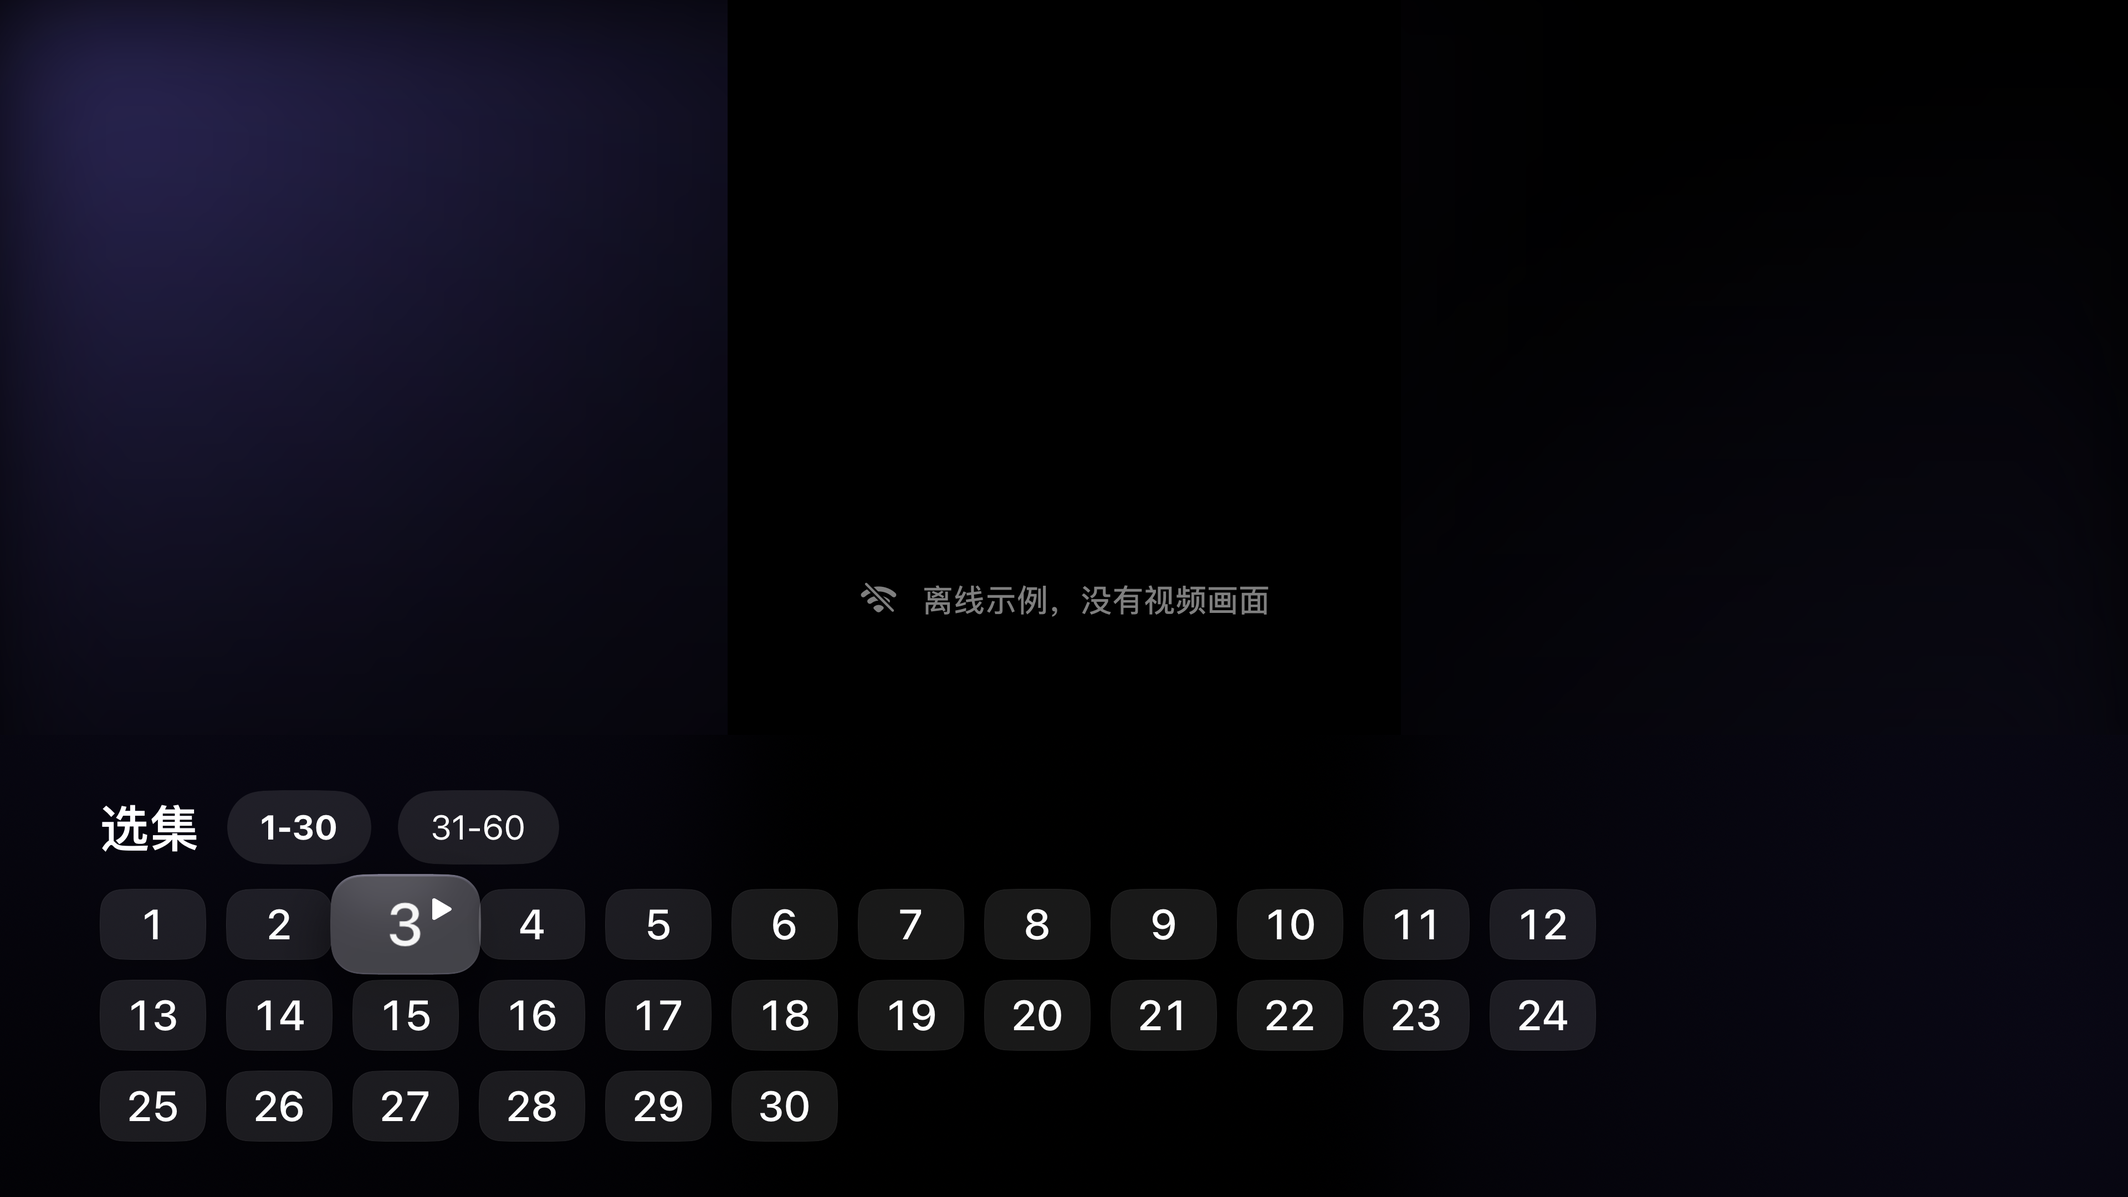
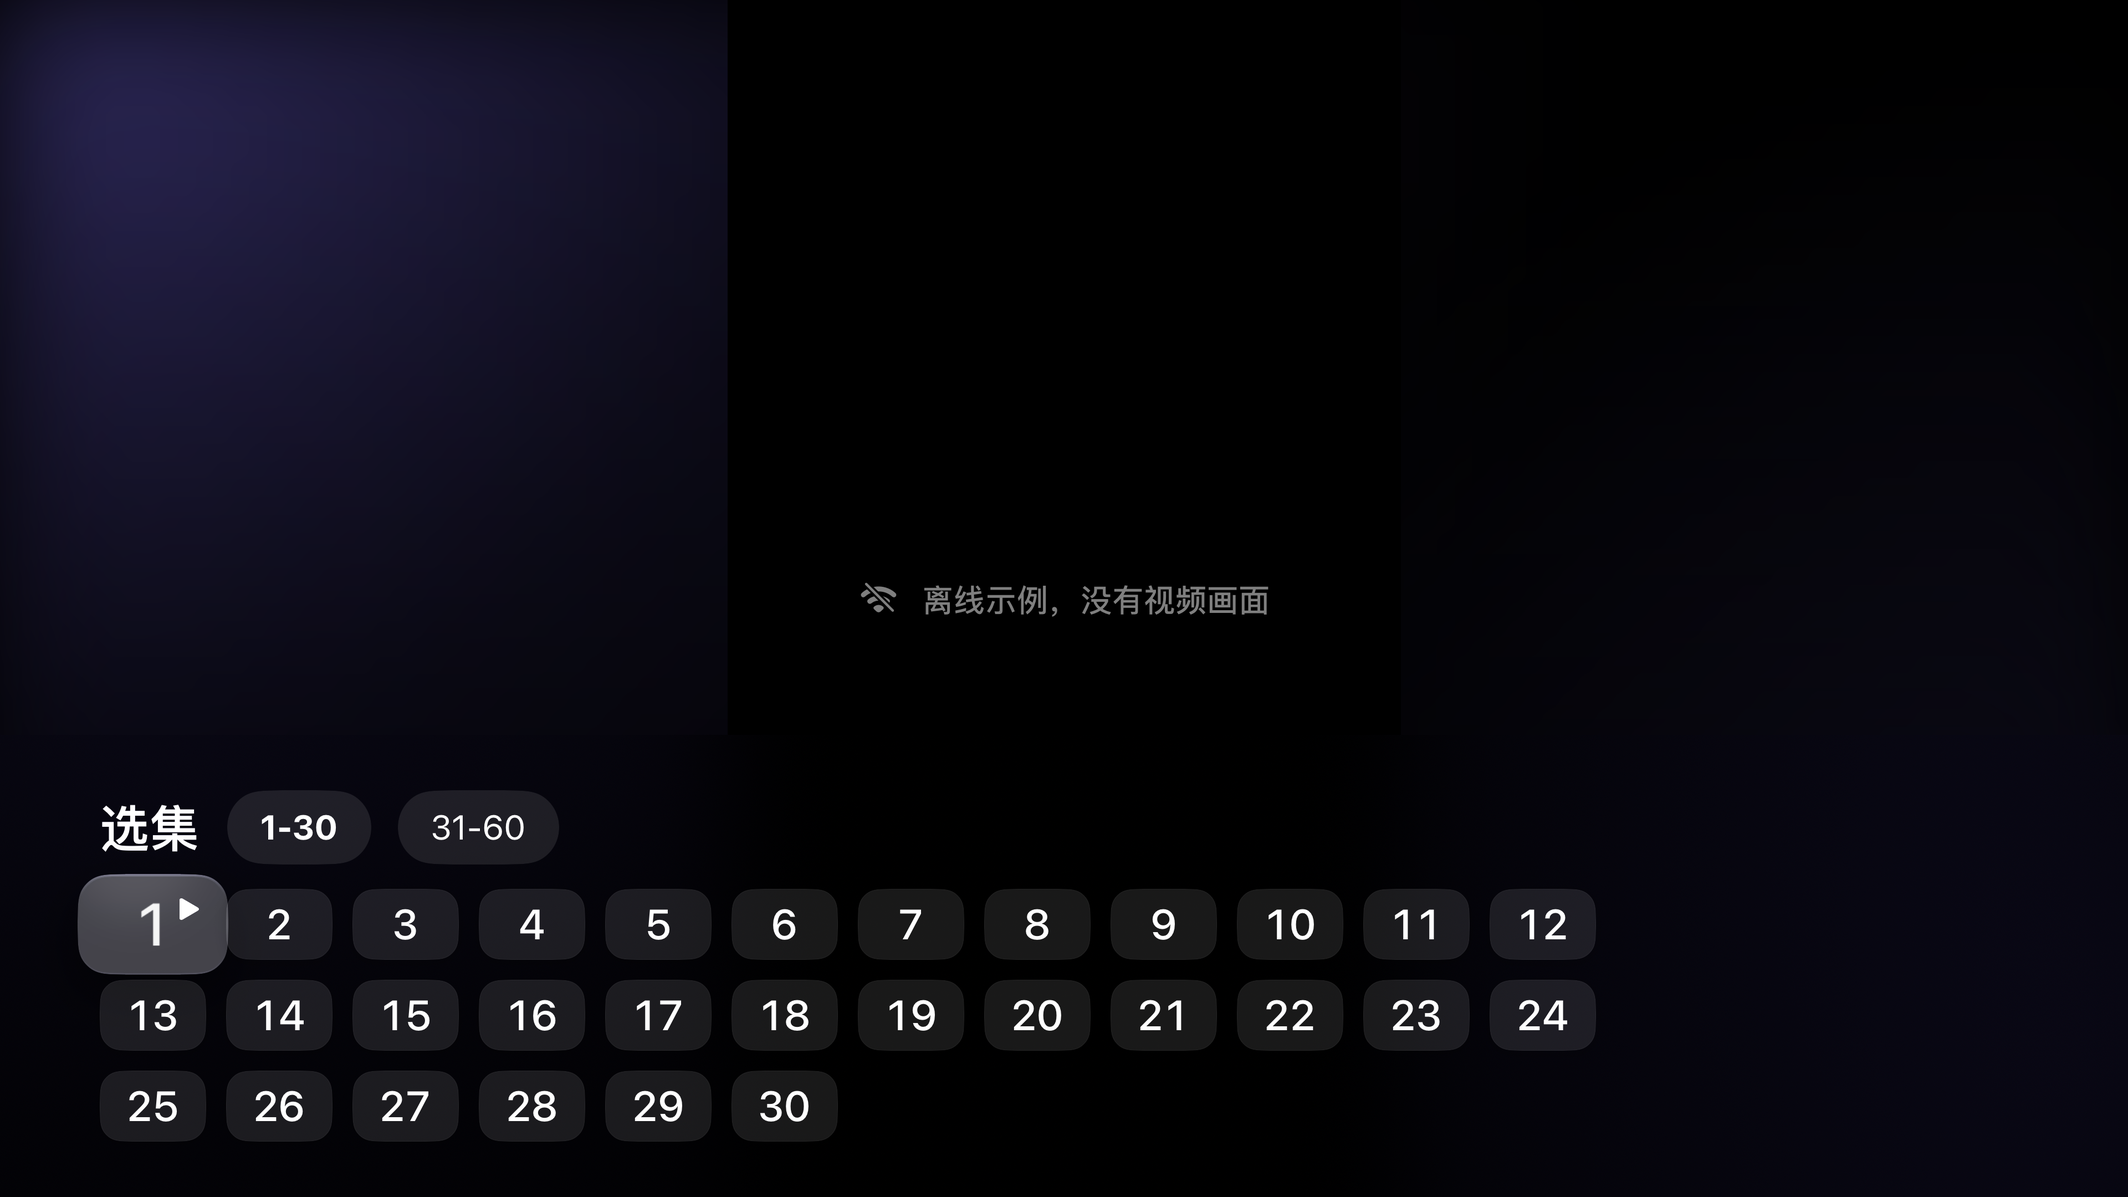
tvOS player: play key, 下一集 offline, scene phase, tests offline
Review fixes on the series page and player commit:
- `xcodebuild test` now launches the host app offline and muted too (the scheme's test
  arguments); before this, the unit test runs in the previous commit started the app live and
  unmuted on the simulator (no account, so no account writes; the App source could be warmed up).
- The play key was handled twice on the picture (the remote surface's recognizer and
  onPlayPauseCommand), so a press paused and played again. Only onPlayPauseCommand handles it now,
  wherever the focus is.
- 下一集 also shows for offline sample episodes; it and the Now Playing updates are small views
  of their own, so only they follow the playback clock (the progress bar too).
- Scene phase as in the iOS app: back in front, warm the App source up and
  library.sceneBecameActive(); in the background, sceneEnteredBackground(). The player writes
  the position (forceSync) when the app leaves the front.
- 弹幕 off by default as the device's own setting (turned off once on the first run, every time
  in sample runs), so no danmaku is requested unless the viewer turns it on; the button toggles
  that setting.
- Launch routes into the player start at episode 1 (as in the iOS app).

Checks: tvOS build-sim BUILD SUCCEEDED; xcodebuild test 3 unit + 11 UI tests passed (new: play
key on the picture and on the buttons, once per press; 下一集 in the last 5 s takes the focus and
[…]

Changed region(s): [[0.0312, 0.7134, 0.125, 0.8375], [0.1562, 0.7134, 0.25, 0.8375]]

diff --git a/tvos/App/Sources/Player/TVPlayerPage.swift b/tvos/App/Sources/Player/TVPlayerPage.swift
@@ -21,14 +21,13 @@ struct TVPlayerPage: View {
     @State private var scrubTo: Double?
     @State private var tint = Color.gray
     @State private var nowPlaying = NowPlaying()
-    /// 弹幕 starts off on the TV; turning it on here also turns on the shared setting that loads it.
-    @AppStorage("tvDanmakuVisible") private var danmakuVisible = false
+    @Environment(\.scenePhase) private var scenePhase
     @FocusState private var focus: Focus?
 
     enum Panel: Equatable { case episodes, speed, quality }
     /// The same choices as the iOS player's speed menu.
     static let rates: [Float] = [0.75, 1, 1.25, 1.5, 2, 3]
-    private enum Focus: Hashable { case next, episodes, danmaku, speed, quality, panel(Int) }
+    enum Focus: Hashable { case next, episodes, danmaku, speed, quality, panel(Int) }
 
     init(target: PlayerTarget, app: TVAppModel) {
         self.app = app
@@ -45,7 +44,7 @@ struct TVPlayerPage: View {
                 VideoSurface(engine: engine)
                     .frame(width: video.width, height: video.height)
                     .position(x: video.midX, y: video.midY)
-                if danmakuVisible, app.library.settings.danmaku.enabled, !session.danmaku.isEmpty {
+                if app.library.settings.danmaku.enabled, !session.danmaku.isEmpty {
                     // Only over the top third of the picture.
                     DanmakuLayer(items: session.danmaku, engine: engine, settings: app.library.settings.danmaku, bottomInset: 0)
                         .frame(width: video.width, height: video.height / 3)
@@ -56,7 +55,7 @@ struct TVPlayerPage: View {
                 status
                     .position(x: video.midX, y: video.midY)
                 RemoteSurface(isActive: panel == nil,
-                              onSelect: clickOrPlayKey, onPlayPause: clickOrPlayKey,
+                              onSelect: clickOrPlayKey,
                               onStep: { step($0) }, onScrub: { scrub($0) },
                               onSwipeDown: swipeDown, onMenu: back)
                     .ignoresSafeArea()
@@ -64,11 +63,12 @@ struct TVPlayerPage: View {
                     controls
                         .transition(.opacity)
                 }
-                if showsNextButton {
-                    nextButton
+                if panel == nil {
+                    NextEpisodeButton(session: session, focus: $focus)
                         .frame(maxWidth: .infinity, maxHeight: .infinity, alignment: .bottomTrailing)
                         .padding(.trailing, 90).padding(.bottom, controlsVisible ? 260 : 90)
                 }
+                NowPlayingTicker(session: session, nowPlaying: nowPlaying)
                 if let panel {
                     panelView(panel)
                         .transition(.move(edge: panel == .episodes ? .bottom : .trailing).combined(with: .opacity))
@@ -80,6 +80,8 @@ struct TVPlayerPage: View {
         .animation(.easeInOut(duration: 0.25), value: controlsVisible)
         .animation(.easeInOut(duration: 0.25), value: panel)
         .onExitCommand(perform: back)
+        // The play key, wherever the focus is.
+        .onPlayPauseCommand(perform: clickOrPlayKey)
         .task { await session.open() }
         .task(id: session.cover) {
             if let color = await CoverTint.color(for: session.cover) { tint = color }
@@ -91,11 +93,11 @@ struct TVPlayerPage: View {
         .onChange(of: engine.isPlaying) { _, playing in
             // No screensaver while an episode plays.
             UIApplication.shared.isIdleTimerDisabled = playing
-            updateNowPlaying()
         }
-        .onChange(of: session.episodeNumber) { _, _ in updateNowPlaying() }
-        .onChange(of: Int(engine.currentTime) / 5) { _, _ in updateNowPlaying() }
-        .onChange(of: showsNextButton) { _, shows in if shows, panel == nil { focus = .next } }
+        .onChange(of: scenePhase) { _, phase in
+            // Leaving the front: the position is written now, not on the next 5 s tick.
+            if phase != .active { session.persist(forceSync: true) }
+        }
     }
 
     // MARK: Layout
@@ -138,13 +140,13 @@ struct TVPlayerPage: View {
             }
             Spacer()
             VStack(alignment: .leading, spacing: 28) {
-                ProgressBar(current: scrubTo ?? engine.currentTime, buffered: engine.buffered, duration: engine.duration,
-                            isScrubbing: scrubTo != nil)
+                LiveProgress(engine: engine, scrubTo: scrubTo)
                 HStack(spacing: 28) {
                     Button { open(.episodes) } label: { Label("选集", systemImage: "square.grid.3x3") }
                         .focused($focus, equals: .episodes)
+                    let danmakuOn = app.library.settings.danmaku.enabled
                     Button { toggleDanmaku() } label: {
-                        Label(danmakuVisible ? "弹幕 开" : "弹幕 关", systemImage: danmakuVisible ? "captions.bubble.fill" : "captions.bubble")
+                        Label(danmakuOn ? "弹幕 开" : "弹幕 关", systemImage: danmakuOn ? "captions.bubble.fill" : "captions.bubble")
                     }
                     .focused($focus, equals: .danmaku)
                     Button { open(.speed) } label: { Label(speedLabel(engine.rate), systemImage: "gauge.with.dots.needle.67percent") }
@@ -166,19 +168,6 @@ struct TVPlayerPage: View {
                 .ignoresSafeArea()
                 .allowsHitTesting(false)
         }
-    }
-
-    // MARK: Next episode
-
-    /// In the last 5 seconds of an episode with one after it.
-    private var showsNextButton: Bool {
-        engine.duration > 0 && engine.duration - engine.currentTime <= 5 && session.hasNext && panel == nil
-            && engine.phase == .ready
-    }
-
-    private var nextButton: some View {
-        Button { session.next() } label: { Label("下一集", systemImage: "forward.end.fill") }
-            .focused($focus, equals: .next)
     }
 
     // MARK: Panels
@@ -274,11 +263,8 @@ struct TVPlayerPage: View {
     }
 
     private func toggleDanmaku() {
-        danmakuVisible.toggle()
-        if danmakuVisible, !app.library.settings.danmaku.enabled {
-            app.library.settings.danmaku.enabled = true
-        }
-        if danmakuVisible { session.reloadDanmakuIfNeeded() }
+        app.library.settings.danmaku.enabled.toggle()
+        if app.library.settings.danmaku.enabled { session.reloadDanmakuIfNeeded() }
         showControls()
     }
 
@@ -317,8 +303,55 @@ struct TVPlayerPage: View {
         UIApplication.shared.isIdleTimerDisabled = false
     }
 
-    private func updateNowPlaying() {
-        nowPlaying.update(title: session.title, episode: session.episodeNumber, engine: engine)
+}
+
+/// 下一集 in the last 5 seconds of an episode with one after it; it takes the focus when it shows.
+/// A view of its own, so only it follows the playback clock.
+private struct NextEpisodeButton: View {
+    let session: PlaybackSession
+    var focus: FocusState<TVPlayerPage.Focus?>.Binding
+
+    var body: some View {
+        let engine = session.engine
+        let shows = engine.duration > 0 && engine.duration - engine.currentTime <= 5 && session.hasNext
+            && (engine.phase == .ready || engine.phase == .offline)
+        Group {
+            if shows {
+                Button { session.next() } label: { Label("下一集", systemImage: "forward.end.fill") }
+                    .focused(focus, equals: .next)
+            }
+        }
+        .onChange(of: shows) { _, now in if now { focus.wrappedValue = .next } }
+    }
+}
+
+/// Keeps the system's Now Playing in step: on play and pause, a new episode, and every 5 s.
+private struct NowPlayingTicker: View {
+    let session: PlaybackSession
+    let nowPlaying: NowPlaying
+
+    var body: some View {
+        let engine = session.engine
+        Color.clear
+            .frame(width: 0, height: 0)
+            .onChange(of: engine.isPlaying, initial: true) { _, _ in update() }
+            .onChange(of: session.episodeNumber) { _, _ in update() }
+            .onChange(of: Int(engine.currentTime) / 5) { _, _ in update() }
+    }
+
+    private func update() {
+        nowPlaying.update(title: session.title, episode: session.episodeNumber, engine: session.engine)
+    }
+}
+
+/// The progress bar following the playback clock (or the scrub target).
+private struct LiveProgress: View {
+    let engine: PlayerEngine
+    let scrubTo: Double?
+
+    var body: some View {
+        ProgressBar(current: scrubTo ?? engine.currentTime, buffered: engine.buffered, duration: engine.duration,
+                    isScrubbing: scrubTo != nil)
     }
 }
 

diff --git a/tvos/App/Sources/HongguoDramaTVApp.swift b/tvos/App/Sources/HongguoDramaTVApp.swift
@@ -1,6 +1,7 @@
 import AVFoundation
 import HongguoCore
 import HongguoModels
+import HongguoPlayback
 import HongguoPlayerKit
 import SwiftUI
 
@@ -63,18 +64,26 @@ final class TVAppModel: PlayerHost {
         if routesToSeries, !launch.arguments.seriesId.isEmpty {
             open(route: launch.route, SeriesSummary(seriesId: launch.arguments.seriesId, title: ""))
         } else if routesToSeries, launch.offlineFixtures {
-            open(route: launch.route, FixtureBackend.summary(1))
+            open(route: launch.route, FixtureBackend.summary(1), startEpisode: 1)
         } else if routesToSeries {
             Task { [weak self] in
                 guard let self, let first = try? await self.backend.catalog(kind: .hotDrama, genre: nil, page: 1).items.first else { return }
-                self.open(route: launch.route, first)
+                self.open(route: launch.route, first, startEpisode: 1)
             }
+        }
+        // 弹幕 starts off on a TV: the first time this device runs, its own setting is turned off
+        // (afterwards it is whatever the viewer chose). Sample runs start off every time.
+        if launch.offlineFixtures {
+            library.settings.danmaku.enabled = false
+        } else if !UserDefaults.standard.bool(forKey: "tvDanmakuDefaulted") {
+            library.settings.danmaku.enabled = false
+            UserDefaults.standard.set(true, forKey: "tvDanmakuDefaulted")
         }
         library.startLive { [weak self] in self?.player.hasFirstFrame ?? true }
     }
 
-    private func open(route: LaunchOptions.Route, _ series: SeriesSummary) {
-        if route == .detail { openDetail(series) } else { openPlayer(series) }
+    private func open(route: LaunchOptions.Route, _ series: SeriesSummary, startEpisode: Int? = nil) {
+        if route == .detail { openDetail(series) } else { openPlayer(series, startEpisode: startEpisode) }
     }
 
     func openDetail(_ series: SeriesSummary) {
@@ -96,6 +105,8 @@ final class TVAppModel: PlayerHost {
 /// sit over it in place; while one is up the tabs take no focus.
 struct RootView: View {
     @Environment(TVAppModel.self) private var app
+    @Environment(\.scenePhase) private var scenePhase
+    @State private var hasActivatedOnce = false
 
     var body: some View {
         @Bindable var app = app
@@ -136,5 +147,20 @@ struct RootView: View {
         }
         .animation(.easeInOut(duration: 0.25), value: app.detailTarget?.seriesId)
         .animation(.easeInOut(duration: 0.25), value: app.playerTarget?.id)
+        .onChange(of: scenePhase) { _, phase in
+            // As in the iOS app: back in front, warm the App source up and sync the account (at
+            // most once a minute, then every 3 minutes); in the background, stop the loop.
+            if phase == .active {
+                if hasActivatedOnce {
+                    if !app.launch.offlineFixtures {
+                        Task { await EpisodeResolver.shared.warmUpAppSource() }
+                    }
+                    app.library.sceneBecameActive()
+                }
+                hasActivatedOnce = true
+            } else if phase == .background {
+                app.library.sceneEnteredBackground()
+            }
+        }
     }
 }

diff --git a/tvos/UITests/PlayerTests.swift b/tvos/UITests/PlayerTests.swift
@@ -72,4 +72,56 @@ final class PlayerTests: XCTestCase {
         remote.press(.menu)
         XCTAssertTrue(app.staticTexts["真人剧"].waitForExistence(timeout: 5))
     }
+
+    private func advances(_ app: XCUIApplication, within seconds: Double = 2.5) -> Bool {
+        guard let start = elapsed(app) else { return false }
+        let deadline = Date().addingTimeInterval(seconds)
+        while Date() < deadline { if let now = elapsed(app), now > start { return true } }
+        return false
+    }
+
+    /// The play key on the picture pauses and shows the controls, and plays again; with the focus
+    /// on the buttons it does the same, once per press.
+    func testPlayKeyOnThePictureAndOnTheButtons() {
+        let app = launch(route: "player")
+        XCTAssertTrue(app.staticTexts["离线示例，没有视频画面"].waitForExistence(timeout: 10))
+        remote.press(.playPause)
+        XCTAssertTrue(app.buttons["选集"].waitForExistence(timeout: 5), "paused, controls shown")
+        XCTAssertFalse(advances(app), "paused")
+        remote.press(.down) // focus to the buttons
+        remote.press(.playPause)
+        let gone = NSPredicate(format: "exists == false")
+        expectation(for: gone, evaluatedWith: app.buttons["选集"])
+        waitForExpectations(timeout: 3) // one press on the buttons plays (and the controls go)
+        remote.press(.playPause)
+        XCTAssertTrue(app.buttons["选集"].waitForExistence(timeout: 3), "the next press pauses")
+        XCTAssertFalse(advances(app), "paused")
+    }
+
+    /// In the last 5 seconds 下一集 shows and takes the focus; pressing it plays the next episode.
+    func testNextButtonInTheLastFiveSeconds() {
+        let app = launch(route: "player")
+        XCTAssertTrue(app.staticTexts["离线示例，没有视频画面"].waitForExistence(timeout: 10))
+        for _ in 0..<7 { remote.press(.right) }
+        let next = app.buttons["下一集"]
+        XCTAssertTrue(next.waitForExistence(timeout: 5))
+        XCTAssertTrue(next.hasFocus, "下一集 takes the focus")
+        remote.press(.select)
+        XCTAssertTrue(app.staticTexts["第2集 / 共60集"].waitForExistence(timeout: 5))
+    }
+
+    /// At the end of an episode the next one plays by itself.
+    func testNextEpisodePlaysAtTheEnd() {
+        let app = launch(route: "player")
+        XCTAssertTrue(app.staticTexts["离线示例，没有视频画面"].waitForExistence(timeout: 10))
+        for _ in 0..<7 { remote.press(.right) }
+        let next = app.buttons["下一集"]
+        XCTAssertTrue(next.waitForExistence(timeout: 5))
+        // Left alone, the episode runs out and the next one starts (its clock starts again).
+        let gone = NSPredicate(format: "exists == false")
+        expectation(for: gone, evaluatedWith: next)
+        waitForExpectations(timeout: 10)
+        remote.press(.playPause) // pause, to show the controls
+        XCTAssertTrue(app.staticTexts["第2集 / 共60集"].waitForExistence(timeout: 5))
+    }
 }

diff --git a/tvos/App/Sources/Player/RemoteSurface.swift b/tvos/App/Sources/Player/RemoteSurface.swift
@@ -1,15 +1,14 @@
 import SwiftUI
 import UIKit
 
-/// The whole-screen surface that takes the Siri Remote while the player shows no panel: a click
-/// or the play key, a click on the left or right edge (±10 s), horizontal swipes (scrubbing) and a
-/// swipe down. SwiftUI has no swipe input on tvOS, so this is a focusable UIKit view with gesture
+/// The whole-screen surface that takes the Siri Remote while the player shows no panel: a click,
+/// a click on the left or right edge (±10 s), horizontal swipes (scrubbing) and a swipe down.
+/// The play key is left to the page (`onPlayPauseCommand`), so one press is handled once. SwiftUI has no swipe input on tvOS, so this is a focusable UIKit view with gesture
 /// recognizers for the touch surface.
 struct RemoteSurface: UIViewRepresentable {
     /// Takes focus and input only while true (a panel takes over otherwise).
     var isActive: Bool
     var onSelect: () -> Void
-    var onPlayPause: () -> Void
     var onStep: (_ direction: Int) -> Void
     /// Horizontal swipe: the fraction of the surface's width moved so far, then nil when it ends.
     var onScrub: (_ fraction: Double?) -> Void
@@ -42,9 +41,6 @@ struct RemoteSurface: UIViewRepresentable {
             let select = UITapGestureRecognizer(target: self, action: #selector(selected))
             select.allowedPressTypes = [NSNumber(value: UIPress.PressType.select.rawValue)]
             addGestureRecognizer(select)
-            let playPause = UITapGestureRecognizer(target: self, action: #selector(playPaused))
-            playPause.allowedPressTypes = [NSNumber(value: UIPress.PressType.playPause.rawValue)]
-            addGestureRecognizer(playPause)
             let pan = UIPanGestureRecognizer(target: self, action: #selector(panned(_:)))
             pan.allowedTouchTypes = [NSNumber(value: UITouch.TouchType.indirect.rawValue)]
             addGestureRecognizer(pan)
@@ -55,7 +51,6 @@ struct RemoteSurface: UIViewRepresentable {
         override var canBecomeFocused: Bool { isActive }
 
         @objc private func selected() { handlers?.onSelect() }
-        @objc private func playPaused() { handlers?.onPlayPause() }
 
         @objc private func panned(_ pan: UIPanGestureRecognizer) {
             let moved = pan.translation(in: self)
